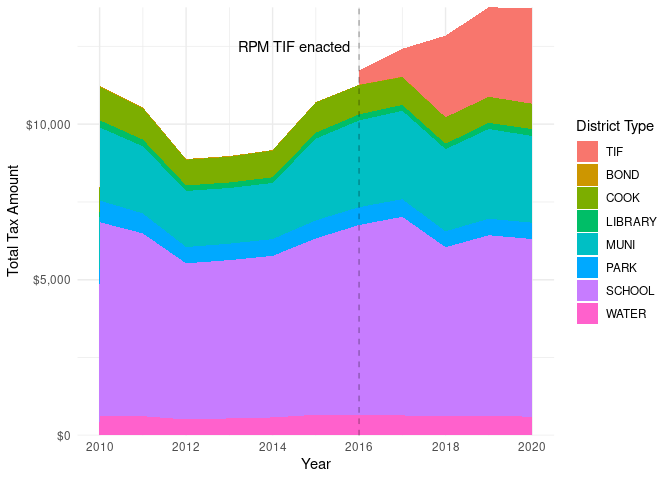
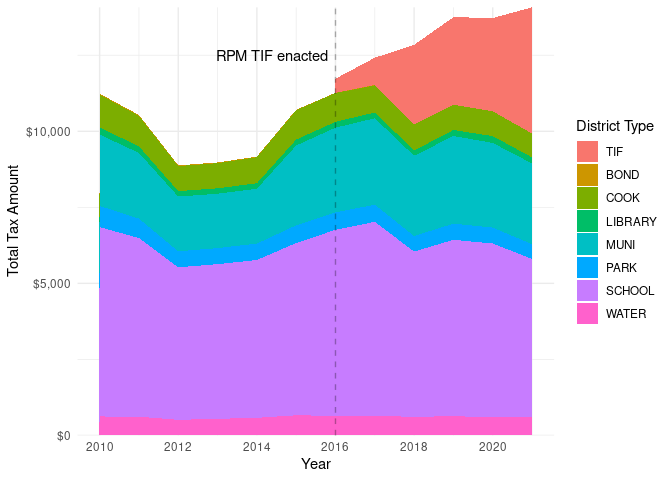
Update README with 2021 data

diff --git a/README.md b/README.md
@@ -9,13 +9,13 @@
 > installation](#database-installation) for details.
 >
 > [**Link to PTAXSIM
-> database**](https://ccao-data-public-us-east-1.s3.amazonaws.com/ptaxsim/ptaxsim-2020.1.0.db.bz2)
-> (DB version: 2020.1.0; Last updated: 2022-11-14 14:29:37)
+> database**](https://ccao-data-public-us-east-1.s3.amazonaws.com/ptaxsim/ptaxsim-2021.0.0.db.bz2)
+> (DB version: 2021.0.0; Last updated: 2022-12-30 19:46:15)
 
 PTAXSIM is an R package/database to approximate Cook County property tax
 bills. It uses real assessment, exemption, TIF, and levy data to
 generate historic, line-item tax bills (broken out by taxing district)
-for any property from 2006 to 2020. Given some careful assumptions and
+for any property from 2006 to 2021. Given some careful assumptions and
 data manipulation, it can also provide hypothetical, but factually
 grounded, answers to questions such as:
 
@@ -99,7 +99,7 @@ database:
 
 1.  Download the compressed database file from the CCAO’s public S3
     bucket. [Link
-    here](https://ccao-data-public-us-east-1.s3.amazonaws.com/ptaxsim/ptaxsim-2020.1.0.db.bz2).
+    here](https://ccao-data-public-us-east-1.s3.amazonaws.com/ptaxsim/ptaxsim-2021.0.0.db.bz2).
 2.  (Optional) Rename the downloaded database file by removing the
     version number, i.e. `ptaxsim-0.4.3.db.bz2` becomes
     `ptaxsim.db.bz2`.
@@ -360,7 +360,7 @@ broken out by taxing district. To do so, pass a vector of multiple years
 to the `year_vec` argument of `tax_bill()`:
 
 ``` r
-multiple_years <- tax_bill(2010:2020, "14081020210000")
+multiple_years <- tax_bill(2010:2021, "14081020210000")
 multiple_years
 #>      year            pin class tax_code    av    eav agency_num
 #>   1: 2010 14081020210000   206    73001 69062 227905  010010000
@@ -369,11 +369,11 @@ multiple_years
 #>   4: 2010 14081020210000   206    73001 69062 227905  030210001
 #>   5: 2010 14081020210000   206    73001 69062 227905  030210002
 #>  ---                                                           
-#> 111: 2020 14081020210000   206    73105 61605 198578  043030000
-#> 112: 2020 14081020210000   206    73105 61605 198578  044060000
-#> 113: 2020 14081020210000   206    73105 61605 198578  050200000
-#> 114: 2020 14081020210000   206    73105 61605 198578  050200001
-#> 115: 2020 14081020210000   206    73105 61605 198578  080180000
+#> 122: 2021 14081020210000   206    73105 70000 210189  043030000
+#> 123: 2021 14081020210000   206    73105 70000 210189  044060000
+#> 124: 2021 14081020210000   206    73105 70000 210189  050200000
+#> 125: 2021 14081020210000   206    73105 70000 210189  050200001
+#> 126: 2021 14081020210000   206    73105 70000 210189  080180000
 #>                       agency_name     agency_major_type agency_minor_type
 #>   1:               COUNTY OF COOK           COOK COUNTY              COOK
 #>   2: FOREST PRESERVE DISTRICT ...           COOK COUNTY              COOK
@@ -381,11 +381,11 @@ multiple_years
 #>   4: CITY OF CHICAGO LIBRARY F... MUNICIPALITY/TOWNSHIP           LIBRARY
 #>   5: CITY OF CHICAGO SCHOOL BL... MUNICIPALITY/TOWNSHIP              MUNI
 #>  ---                                                                     
-#> 111: CHICAGO COMMUNITY COLLEGE...                SCHOOL            SCHOOL
-#> 112:           BOARD OF EDUCATION                SCHOOL            SCHOOL
-#> 113:        CHICAGO PARK DISTRICT         MISCELLANEOUS              PARK
-#> 114: CHICAGO PARK DISTRICT AQU...         MISCELLANEOUS              BOND
-#> 115: METRO WATER RECLAMATION D...         MISCELLANEOUS             WATER
+#> 122: CHICAGO COMMUNITY COLLEGE...                SCHOOL            SCHOOL
+#> 123:           BOARD OF EDUCATION                SCHOOL            SCHOOL
+#> 124:        CHICAGO PARK DISTRICT         MISCELLANEOUS              PARK
+#> 125: CHICAGO PARK DISTRICT AQU...         MISCELLANEOUS              BOND
+#> 126: METRO WATER RECLAMATION D...         MISCELLANEOUS             WATER
 #>      agency_tax_rate final_tax
 #>   1:         0.00423    964.04
 #>   2:         0.00051    116.23
@@ -393,11 +393,11 @@ multiple_years
 #>   4:         0.00102    232.46
 #>   5:         0.00116    264.37
 #>  ---                          
-#> 111:         0.00151    240.64
-#> 112:         0.03656   5468.12
-#> 113:         0.00329    524.32
-#> 114:         0.00000      0.00
-#> 115:         0.00378    602.41
+#> 122:         0.00145    225.36
+#> 123:         0.03517   4984.70
+#> 124:         0.00311    483.37
+#> 125:         0.00000      0.00
+#> 126:         0.00382    593.71
 ```
 
 The `tax_bill()` function will automatically combine the years and PIN
